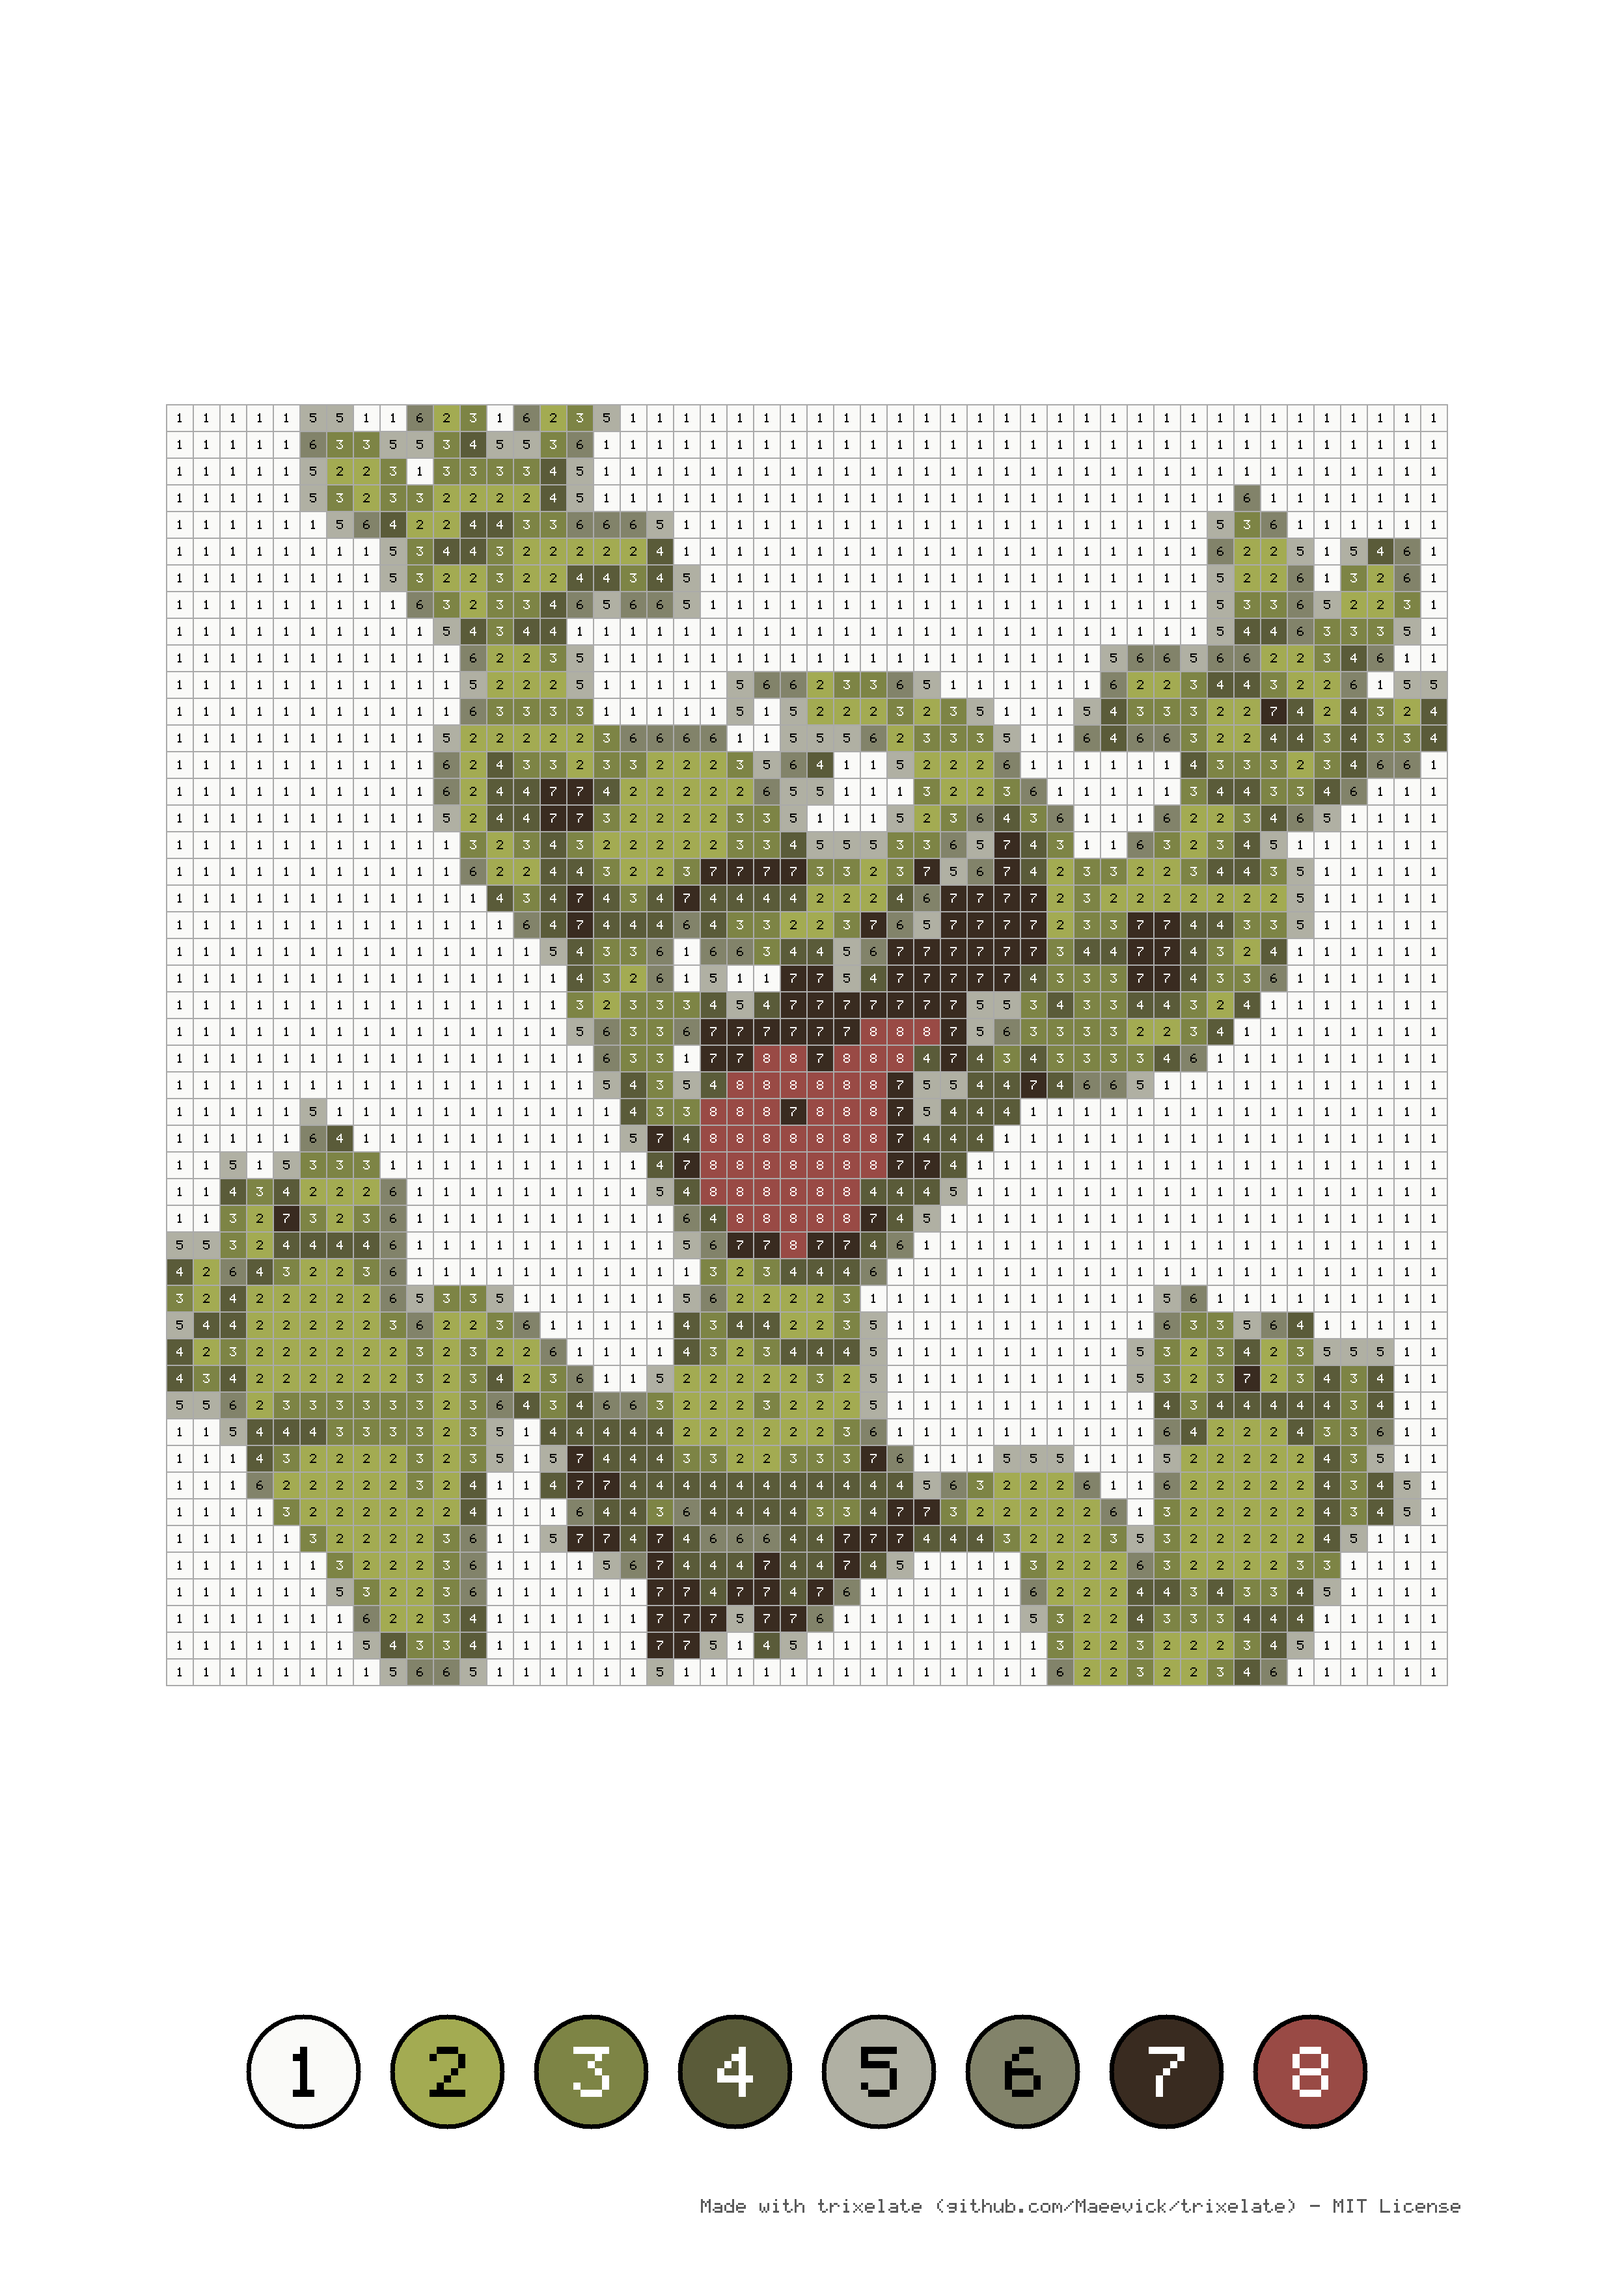
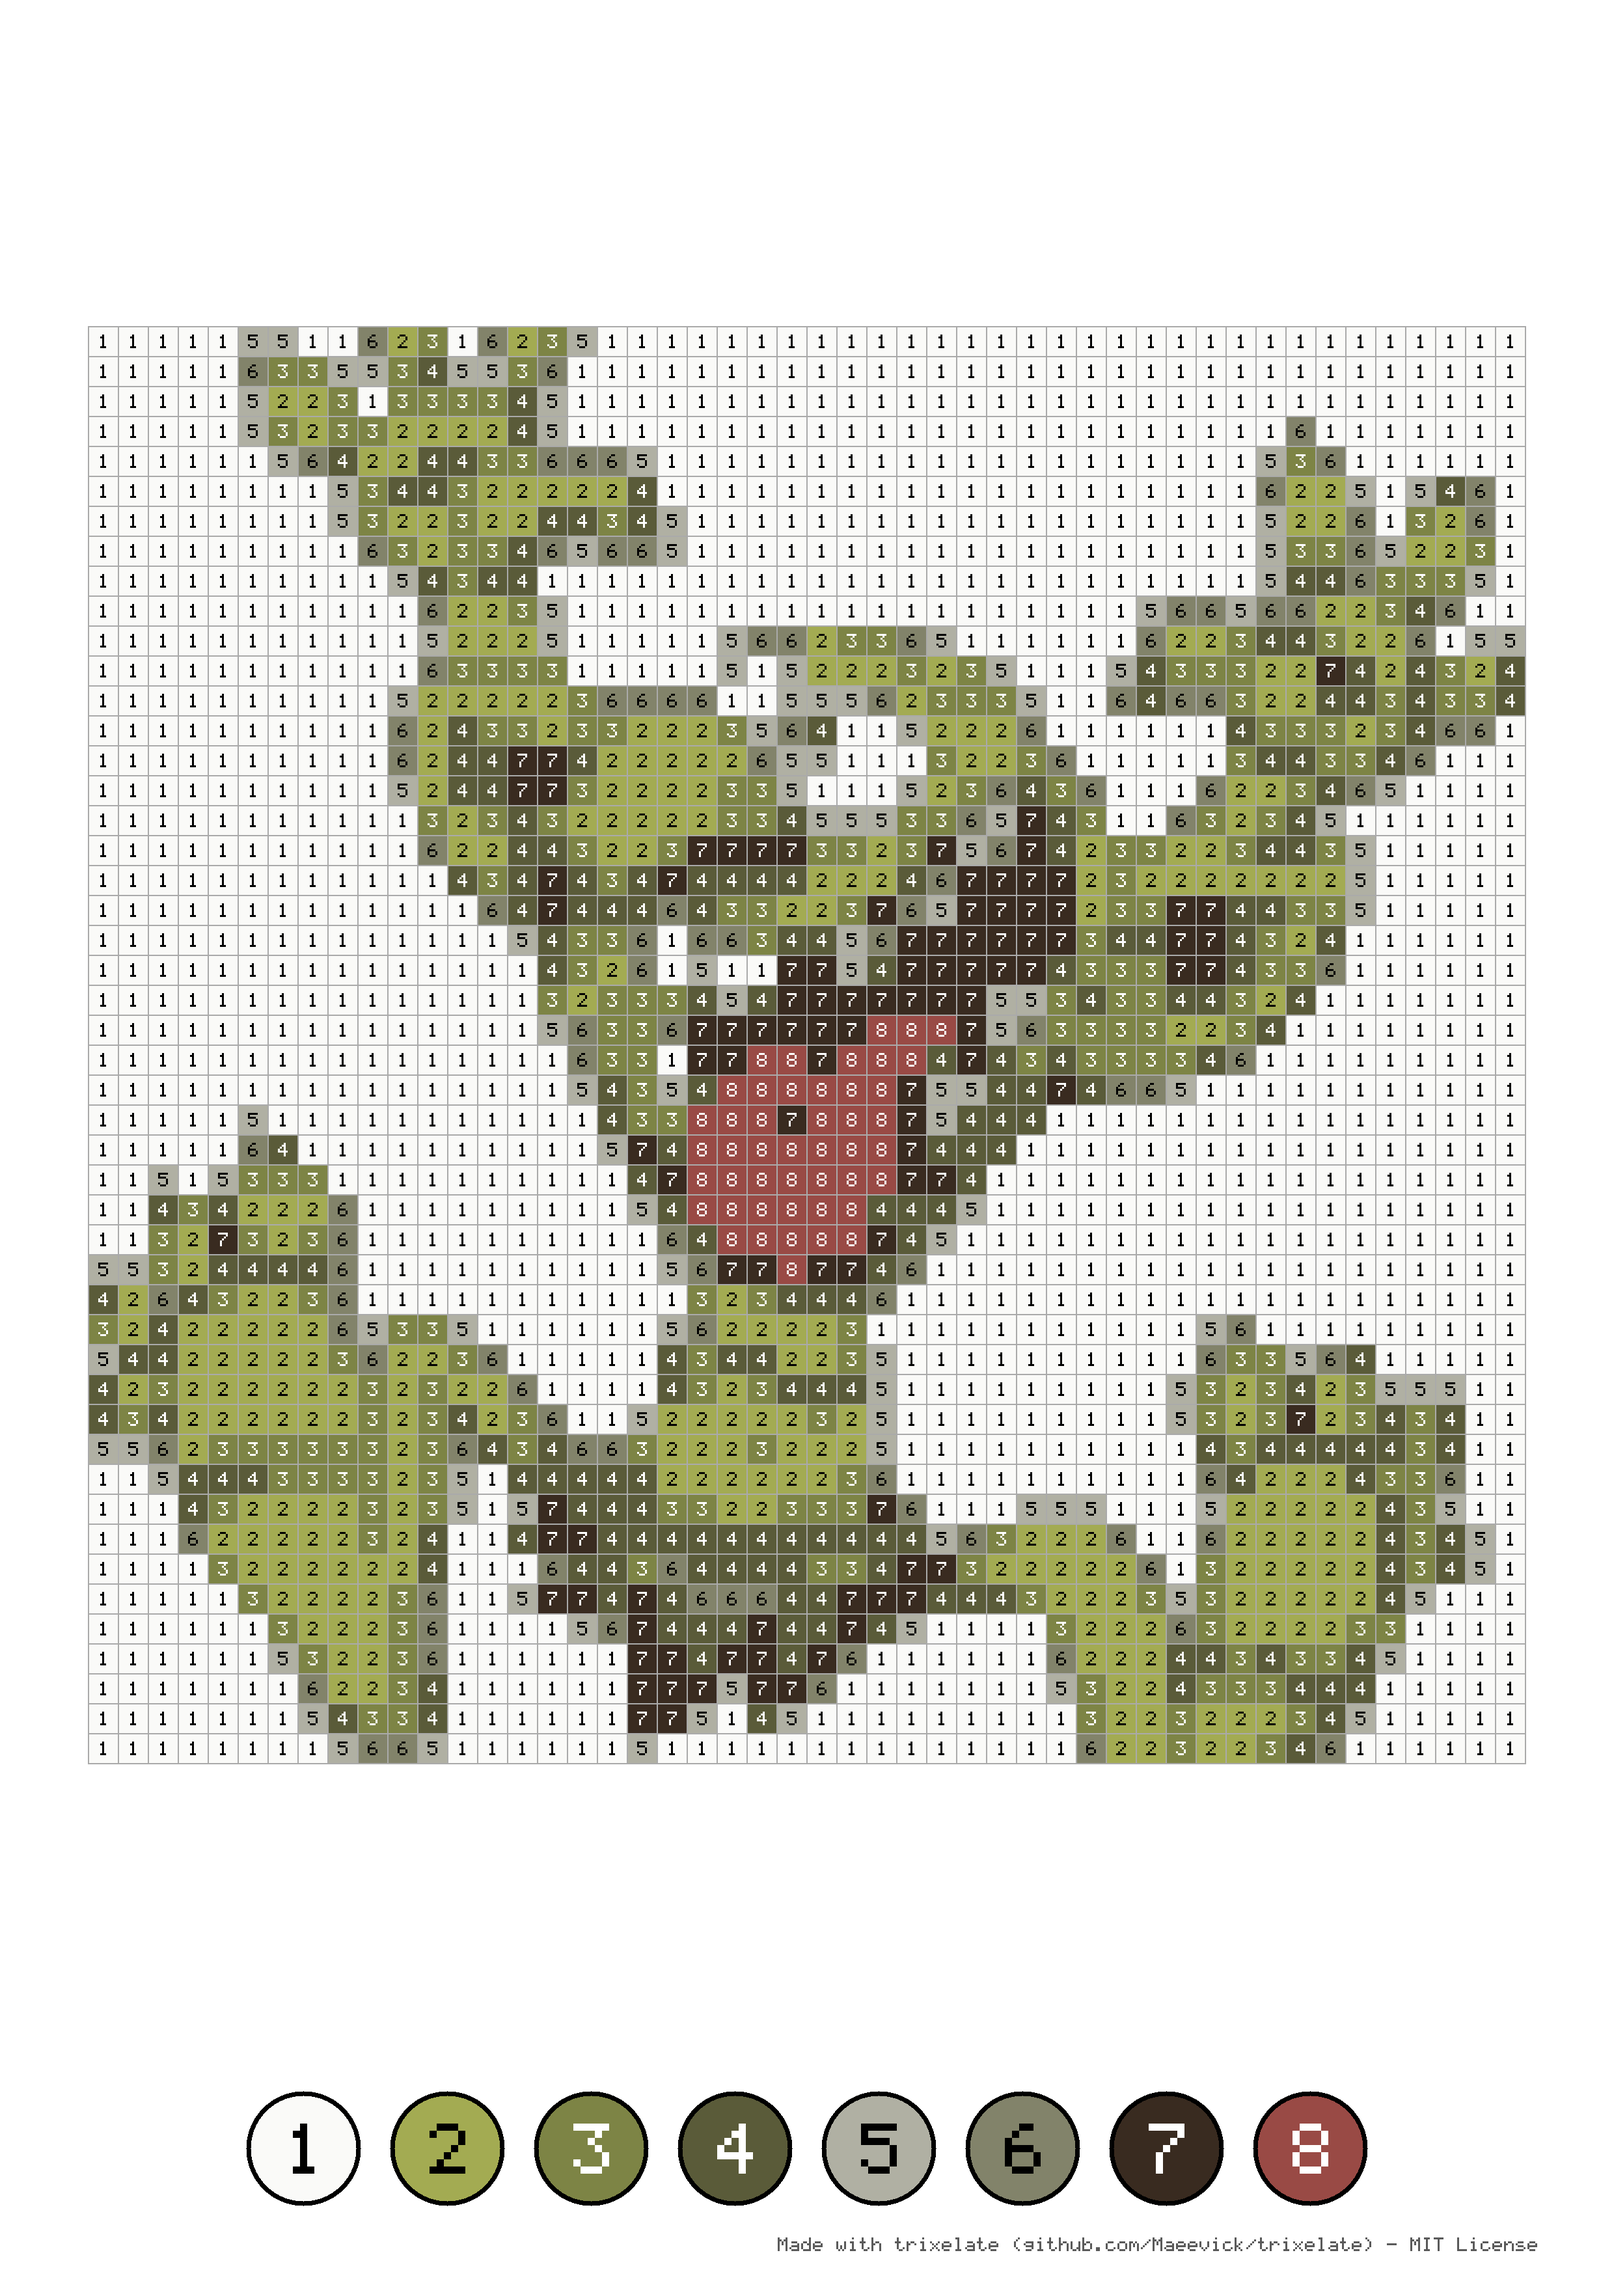
feat(layout): a sheet's usual margin is 10 mm, leaving more paper to its cells

diff --git a/crates/trixelate/src/layout.rs b/crates/trixelate/src/layout.rs
@@ -54,7 +54,7 @@ fn dots(millimetres: u32) -> u32 {
 pub struct Margin(pub u32);
 
 impl Margin {
-    pub const AROUND_A_SHEET: Margin = Margin(20);
+    pub const AROUND_A_SHEET: Margin = Margin(10);
 }
 
 #[derive(Clone, Copy, Debug, PartialEq, Eq)]

diff --git a/README.md b/README.md
@@ -41,7 +41,7 @@ trixelate [OPTIONS] <PICTURE>
 | `-c`, `--colours` | Colours in the palette, from 2 to 24 (`--colors` works too) | 8 |
 | `-f`, `--format` | The paper: `a3`, `a4` or `a5` | `a4` |
 | `--landscape` | Lay the paper on its side, for wide pictures | upright |
-| `-m`, `--margin` | The blank paper around the sheet, in millimetres | 20 |
+| `-m`, `--margin` | The blank paper around the sheet, in millimetres | 10 |
 | `--freedom` | No legend: the numbers only group the cells, and the child picks the colours | |
 | `--model` | The sheet painted in its colours, a model to copy from | |
 | `--twin` | The model and the sheet on one page, one above the other in portrait, side by side in landscape | |
